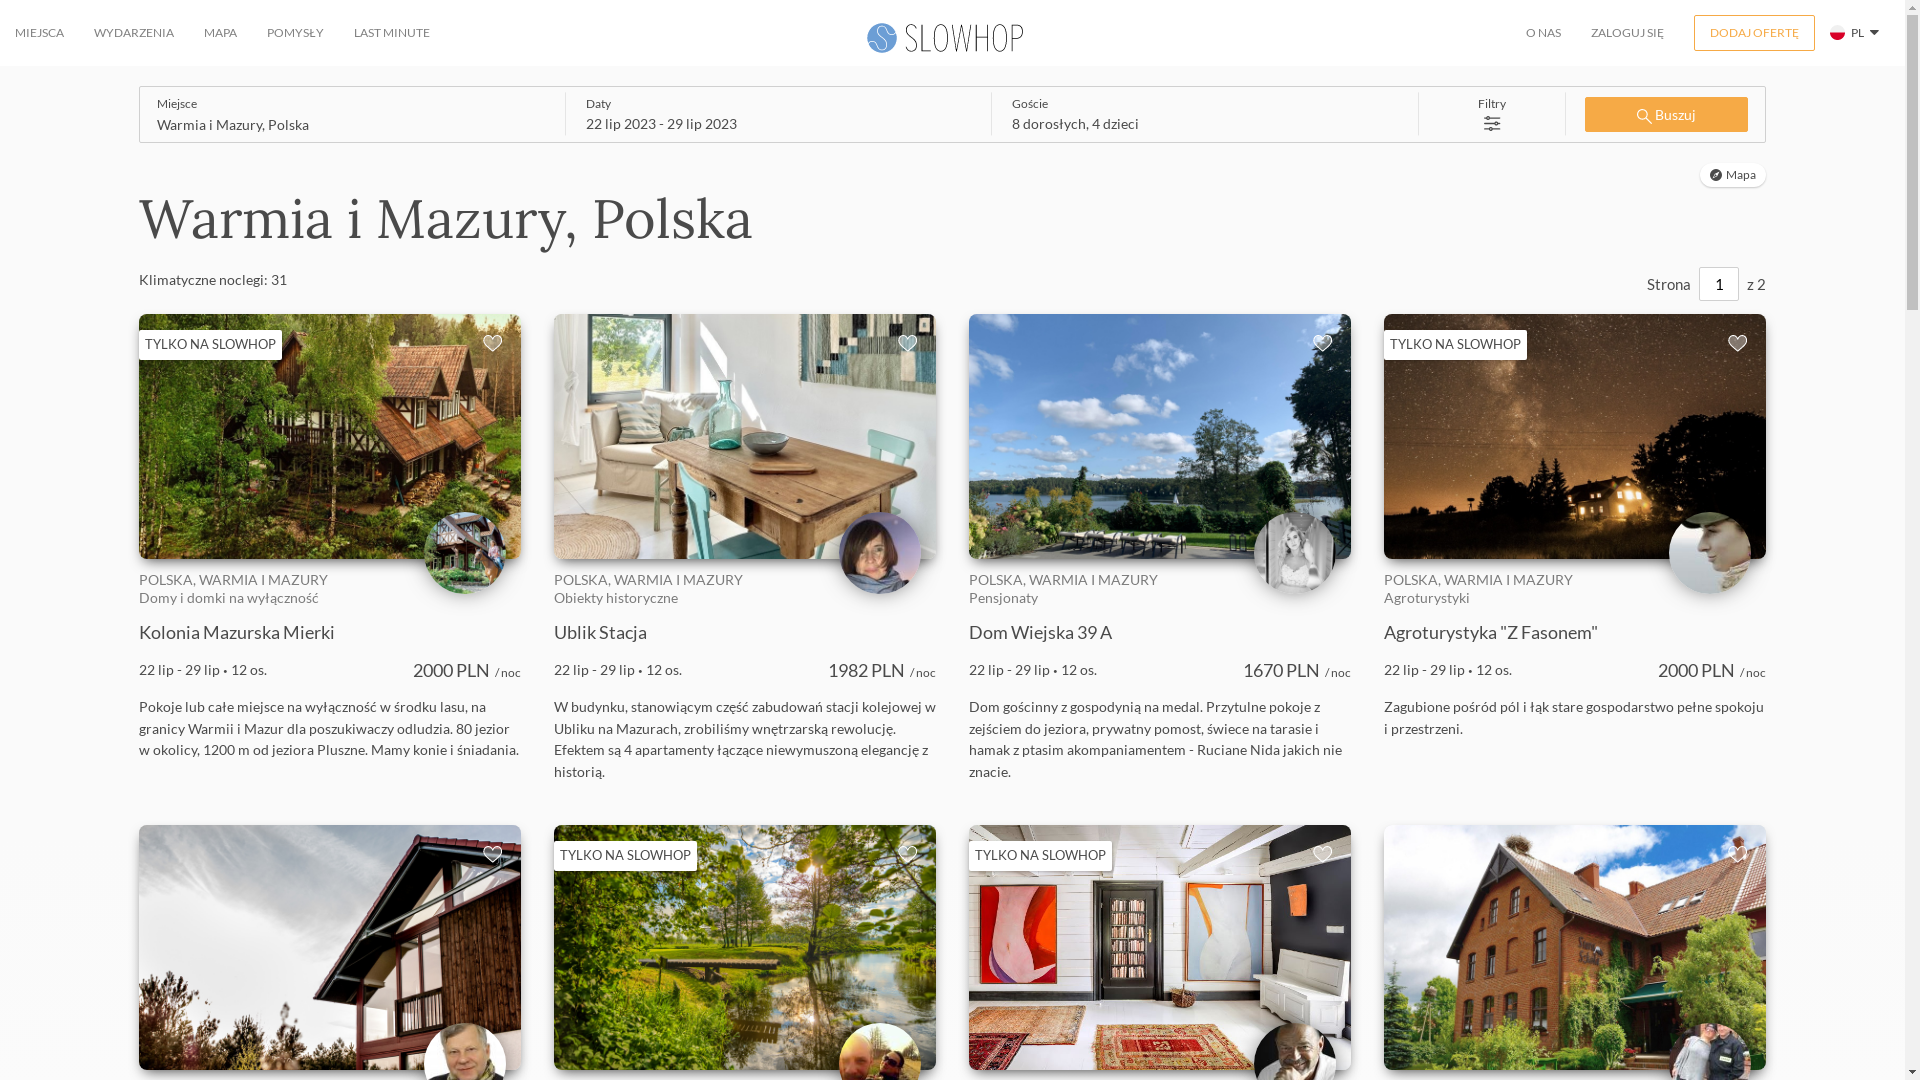
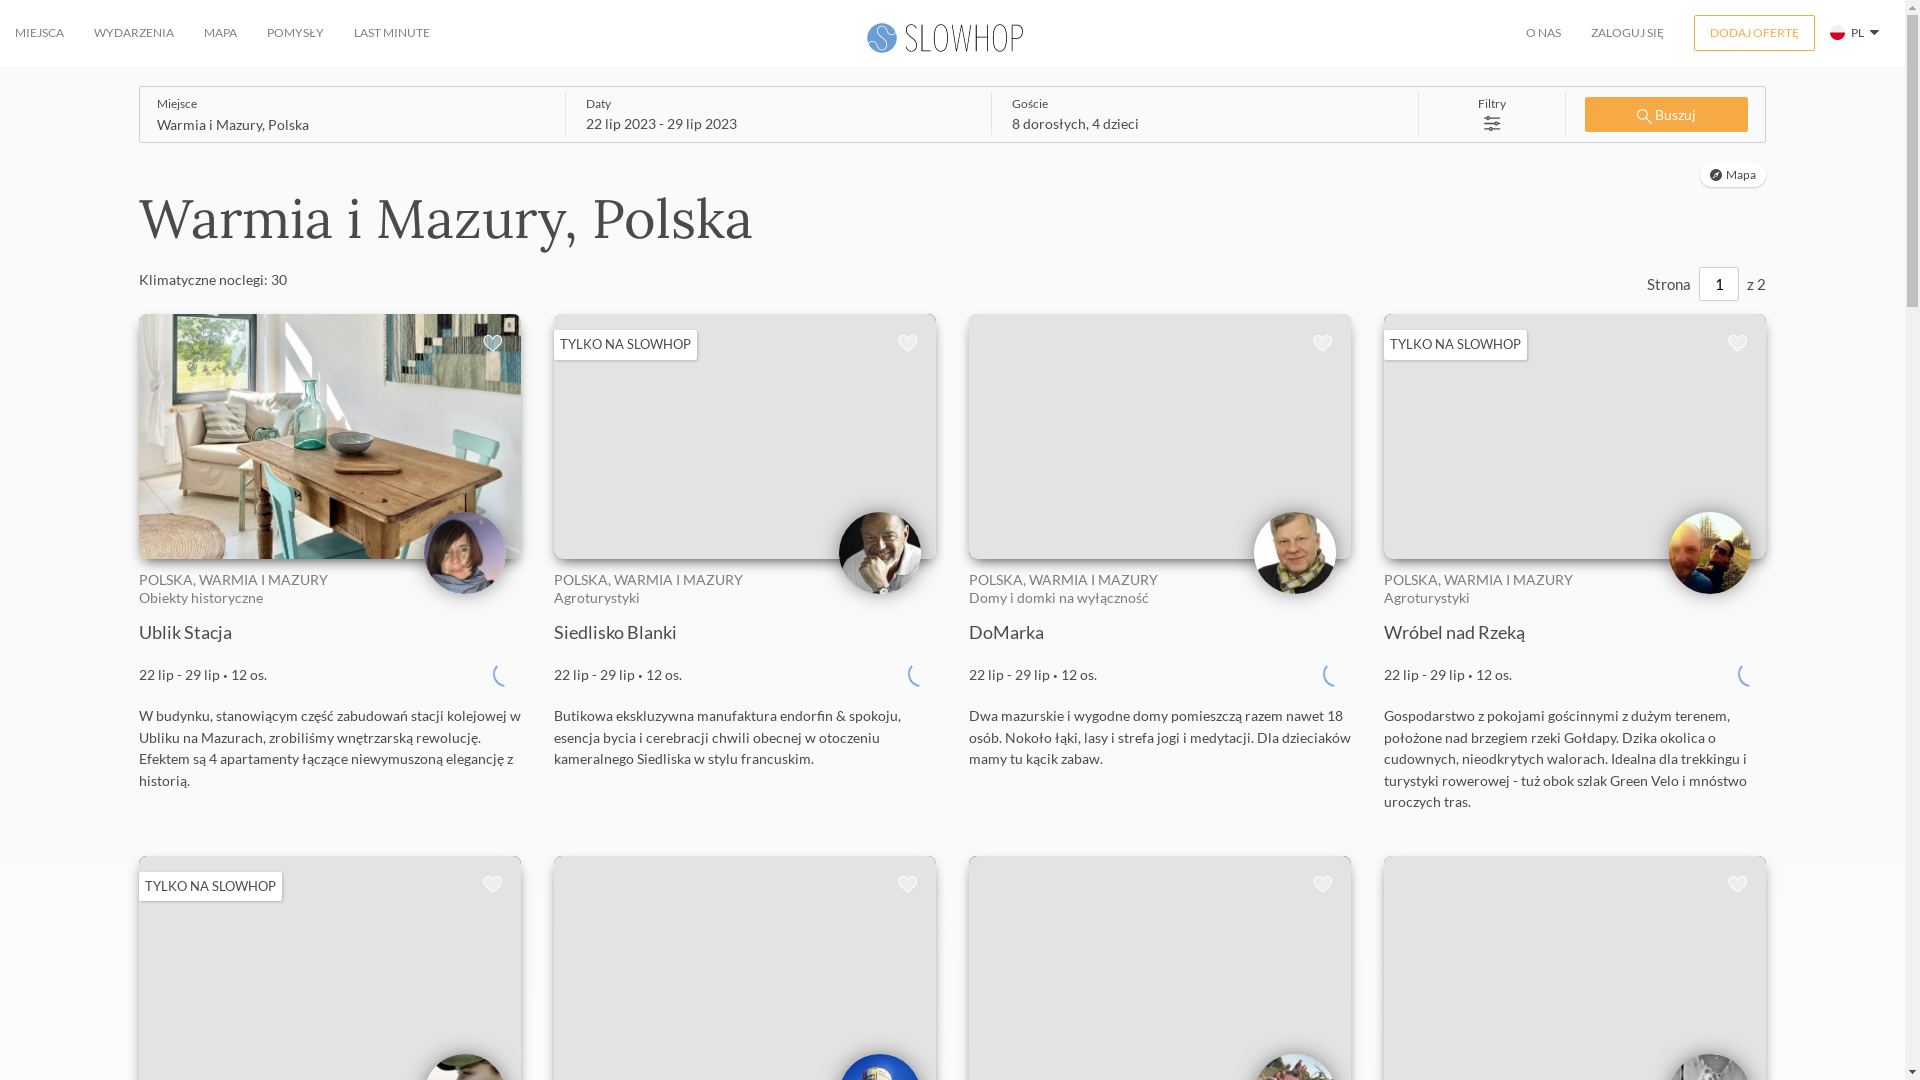
first working version

diff --git a/source/vpscrapproject/webscrapper/logic/implementations/slowhop.py b/source/vpscrapproject/webscrapper/logic/implementations/slowhop.py
@@ -9,8 +9,10 @@ from selenium.webdriver.support import expected_conditions as EC
 import time
 
 from webscrapper.logic.interfaces.scrapper import Scrapper, Place, Query
-from webscrapper.logic.drivers.chrome import Driver
+from webscrapper.logic.drivers.remote import Driver
 from webscrapper.utils.helpers import clean_text
+
+SCREENSHOTS_PATH = "/app/screenshots/"
 
 
 class SlowhopScrapper(Scrapper):
@@ -65,20 +67,26 @@ class SlowhopScrapper(Scrapper):
     def set_polish(self) -> None:
         language_button_xpath = "/html/body/div/div/div/nav/div[2]/ul[3]/div/button"
         language_button = self.driver.find_element(By.XPATH, language_button_xpath)
+        self.driver.get_screenshot_as_file(f"{SCREENSHOTS_PATH}beforelanguagebuttonclick.png")
         language_button.click()
+        self.driver.get_screenshot_as_file(f"{SCREENSHOTS_PATH}waitingformodal.png")
         self.wait_for_element((By.ID, "language-switcher-modal___BV_modal_outer_"))
+        self.driver.get_screenshot_as_file(f"{SCREENSHOTS_PATH}modalloaded.png")
         language_field = self.driver.find_element(By.XPATH, "/ html / body / div[2] / div[1] / div / div / div / div")
         polish = language_field.find_element(By.CSS_SELECTOR, 'img[alt="pl"]')
         polish_a = polish.find_element(By.XPATH, "./..")
+        self.driver.get_screenshot_as_file(f"{SCREENSHOTS_PATH}beforeclickingpolish.png")
         polish_a.click()
         self.wait_for_element_attribute(locator=(By.XPATH, SlowhopScrapper.LANGUAGE_XPATH), attribute="content",
                                         value="pl-PL")
 
     def load_region_hints(self, region_search: str) -> None:
         region_filter = self.search_bar.find_element(By.CSS_SELECTOR, "input#where")
+        ok = self.driver.get_screenshot_as_file(f"{SCREENSHOTS_PATH}enter_region_filter.png")
+        print(f"screenshot /app/enter_region_filter.png result:{ok}", flush=True)
         region_filter.send_keys(region_search)
         time.sleep(2)
-        # self.driver.get_screenshot_as_file("hints.png")
+        self.driver.get_screenshot_as_file(f"{SCREENSHOTS_PATH}hints.png")
 
     def get_region_phrase(self, region_search: str) -> str:
         self.search_bar = self.driver.find_element(By.CSS_SELECTOR, "div.search-bar")
@@ -112,7 +120,7 @@ class SlowhopScrapper(Scrapper):
         html = self.driver.page_source
         soup = BeautifulSoup(html, "html.parser")
         places = soup.find_all("div", class_="catalog-tile", limit=10)
-        self.driver.get_screenshot_as_file("results.png")
+        self.driver.get_screenshot_as_file(f"{SCREENSHOTS_PATH}results.png")
         for place in places:
             content = place.find_all("div", class_="catalog-tile__content")[0]
             result = Place()
@@ -139,7 +147,9 @@ class SlowhopScrapper(Scrapper):
 
 
 if __name__ == "__main__":
+    print("running")
     scrapper = SlowhopScrapper()
+    print("initialized")
     query = Query(region="Mazury", adults=8, children=3, infants=1, start_date=datetime(2023, 7, 20),
                   end_date=datetime(2023, 7, 27))
     results = scrapper.run(query)

diff --git a/source/vpscrapproject/webscrapper/logic/drivers/remote.py b/source/vpscrapproject/webscrapper/logic/drivers/remote.py
@@ -2,10 +2,6 @@ import os
 import sys
 
 from selenium import webdriver
-from selenium.webdriver import Chrome
-from selenium.webdriver.chrome.service import Service as ChromiumService
-from webdriver_manager.chrome import ChromeDriverManager
-from webdriver_manager.core.utils import ChromeType
 
 from django.conf import settings
 
@@ -25,23 +21,20 @@ class Driver(metaclass=SingletonMeta):
     def __init__(self):
         self.options = webdriver.ChromeOptions()
         self.options.add_argument("--no-sandbox")
+        self.options.add_argument('--disable-dev-shm-usage')
         self.options.add_argument("--remote-debugging-port=9222")
         self.options.add_argument('--headless')
         self.options.add_argument("--lang=pl-PL")
         self.options.add_argument("--window-size=1920,1080")
         self.options.add_experimental_option('prefs', {'intl.accept_languages': 'pl,pl_PL'})
         self.options.page_load_strategy = 'none'
-        #self.path = ChromeDriverManager(chrome_type=ChromeType.CHROMIUM).install()
-        # print("PYTHONPATH and PATH")
-        # print(sys.path)
-        # print(os.environ.get("PATH", ''))
-        # status = os.stat(f'{settings.BASE_DIR}/chromedriver')
-        # print(f"chromedriver permissions {oct(status.st_mode)[-3:]}")
-        #print("start chromium service", flush=True)
-        # self.service = ChromiumService(f'{settings.BASE_DIR}/chromedriver')
+
+        host = os.environ.get('SELENIUM_HOST', '')
+        port = os.environ.get('SELENIUM_PORT', '')
+
         print("init driver", flush=True)
         # self.driver = Chrome(options=self.options, service=self.service)
-        self.driver = Chrome(options=self.options)
+        self.driver = webdriver.Remote(f"http://{host}:{port}/wd/hub", options=self.options)
         print("done", flush=True)
         self.driver.implicitly_wait(5)
 

diff --git a/source/vpscrapproject/webscrapper/api_test.py b/source/vpscrapproject/webscrapper/api_test.py
@@ -9,15 +9,32 @@ from django.urls import reverse
 from webscrapper.schemas.serializers import QuerySerializer
 from webscrapper.schemas.schemas import Query
 
+from celery import states
+
 URL = "http://127.0.0.1:8001/"
 
 
+def get_results(task_id: str):
+    endpoint = reverse("result", kwargs={'job_id': task_id})
+    print(f"endpoint to get results is: {endpoint}")
+    response = requests.get(URL + endpoint)
+    data = response.json()
+    results = data.get('result', [])
+    for result in results:
+        print(result)
+
+
 def wait_for_job_done(task_id: str):
-    endpoint = reverse("check", kwargs={'id': task_id})
+    endpoint = reverse("check", kwargs={'job_id': task_id})
+    print(f"endpoint to check is: {endpoint}")
     for tries in range(10):
         response = requests.get(URL + endpoint)
+        data = response.json()
         print(response.json())
+        if data.get('status', states.PENDING) == states.SUCCESS:
+            return True
         time.sleep(2)
+    return False
 
 
 def new_job():
@@ -33,8 +50,21 @@ def new_job():
     task_id = response.json().get('task_id', None)
     if task_id:
         time.sleep(2)
-        wait_for_job_done(task_id)
+        success = wait_for_job_done(task_id)
+    else:
+        success = False
+
+    if success:
+        get_results(task_id)
+
+
+def just_check(task_id):
+    sys.path.append('/home/bartwisniewski/DevMentoring/vpscrap/source/vpscrapproject')
+    os.environ.setdefault('DJANGO_SETTINGS_MODULE', 'vpscrapproject.settings')
+    django.setup()
+    wait_for_job_done(task_id)
 
 
 if __name__ == "__main__":
     new_job()
+    # just_check('761a3c7c-66ea-4811-8de6-5520798ef0e5')

diff --git a/source/vpscrapproject/webscrapper/logic/drivers/chromium.py b/source/vpscrapproject/webscrapper/logic/drivers/chromium.py
@@ -32,16 +32,15 @@ class Driver(metaclass=SingletonMeta):
         self.options.add_experimental_option('prefs', {'intl.accept_languages': 'pl,pl_PL'})
         self.options.page_load_strategy = 'none'
         #self.path = ChromeDriverManager(chrome_type=ChromeType.CHROMIUM).install()
-        # print("PYTHONPATH and PATH")
-        # print(sys.path)
-        # print(os.environ.get("PATH", ''))
-        # status = os.stat(f'{settings.BASE_DIR}/chromedriver')
-        # print(f"chromedriver permissions {oct(status.st_mode)[-3:]}")
-        #print("start chromium service", flush=True)
-        # self.service = ChromiumService(f'{settings.BASE_DIR}/chromedriver')
+        print("PYTHONPATH and PATH")
+        print(sys.path)
+        print(os.environ.get("PATH", ''))
+        status = os.stat(f'{settings.BASE_DIR}/chromedriver')
+        print(f"chromedriver permissions {oct(status.st_mode)[-3:]}")
+        print("start chromium service", flush=True)
+        self.service = ChromiumService(f'{settings.BASE_DIR}/chromedriver')
         print("init driver", flush=True)
-        # self.driver = Chrome(options=self.options, service=self.service)
-        self.driver = Chrome(options=self.options)
+        self.driver = Chrome(options=self.options, service=self.service)
         print("done", flush=True)
         self.driver.implicitly_wait(5)
 

diff --git a/source/vpscrapproject/webscrapper/views.py b/source/vpscrapproject/webscrapper/views.py
@@ -11,8 +11,8 @@ from webscrapper.queue_logic.tasks import scrap
 
 
 class Scrap(APIView):
-    def post(self, *args, **kwargs):
-        query_json = self.request.data
+    def post(self, request, format=None):
+        query_json = request.data
         task = scrap.delay(query_json)
         return Response(data={'task_id': task.id}, status=200)
 
@@ -33,14 +33,14 @@ class Scrap(APIView):
 #         return Response(status=400)
 
 class Check(APIView):
-    def get(self, job_id):
+    def get(self, request, job_id, format=None):
         result = AsyncResult(id=job_id)
         status = result.status
         return Response(data={"job": job_id, "status": status}, status=200)
 
 
 class Result(APIView):
-    def get(self, job_id):
+    def get(self, request, job_id, format=None):
         result = AsyncResult(id=job_id)
         if result.ready():
             return Response(data={"job": job_id, "result": result.get()}, status=200)

diff --git a/source/vpscrapproject/vpscrapproject/settings.py b/source/vpscrapproject/vpscrapproject/settings.py
@@ -124,5 +124,5 @@ STATIC_URL = 'static/'
 
 DEFAULT_AUTO_FIELD = 'django.db.models.BigAutoField'
 
-CELERY_RESULT_BACKEND = "redis://scrapper-redis:6379/0"  # os.environ.get("CELERY_BACKEND", '')
-CELERY_BROKER_URL = "amqp://guest:guest@rabbitmq//"  # os.environ.get("CELERY_BROKER", '')
+CELERY_RESULT_BACKEND = os.environ.get("CELERY_BACKEND", '')  # "redis://scrapper-redis:6379/0"
+CELERY_BROKER_URL = os.environ.get("CELERY_BROKER", '')  # "amqp://guest:guest@rabbitmq//"
